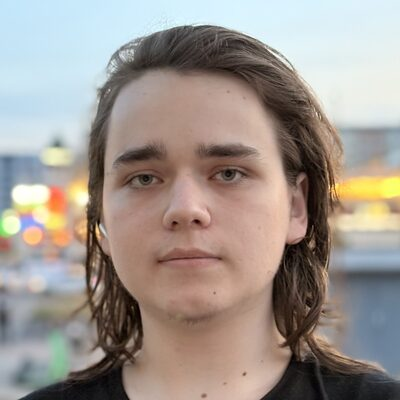
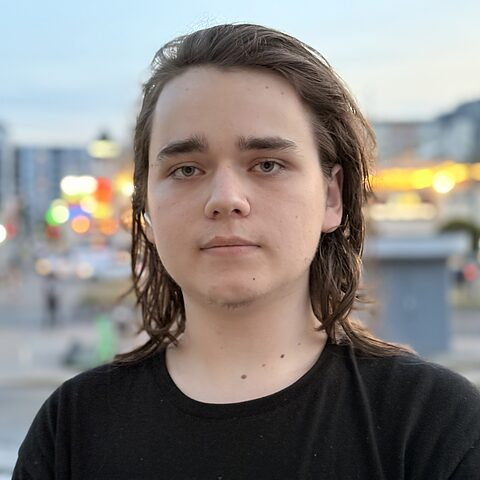
content: enlarge header photo and move it left
Recrop the avatar from the largest square the source allows (full 3024px
height, centred on the face) so the shoulders stay in frame, and serve it
at 480px for a 120px slot. Add an unsharp pass to recover detail lost in
the 6:1 downsample.

Claude-Session: https://claude.ai/code/session_011CqMgYNmSmnvPXmB3zGGD8

diff --git a/CONTEXT.md b/CONTEXT.md
@@ -97,13 +97,18 @@ Three consecutive years of IOAA medals — sustained depth, not a one-off.
 
 Phone is on the CV only — deliberately not on the public site.
 
-Header photo: `public/profile.jpg`, an 88px circular avatar. Generated from `Profile_picture.jpg`
-(the full-resolution iPhone original, kept at the repo root) with:
+Header photo: `public/profile.jpg`, a 120px circular avatar on the left of the header. Generated
+from `Profile_picture.jpg` (the full-resolution iPhone original, kept at the repo root) with the
+largest square the source allows — full 3024px height, centred on the face, so the shoulders stay
+in frame:
 
 ```sh
-convert Profile_picture.jpg -crop 2400x2400+1250+0 +repage -resize 400x400 \
-  -strip -quality 82 -interlace Plane public/profile.jpg
+convert Profile_picture.jpg -crop 3024x3024+938+0 +repage -resize 480x480 \
+  -unsharp 0x0.75+0.75+0.008 -strip -quality 82 -interlace Plane public/profile.jpg
 ```
+
+480px served for a 120px slot covers 4x displays; the unsharp pass restores the detail lost in a
+6:1 downsample.
 
 `-strip` matters — the original carries EXIF GPS coordinates.
 
